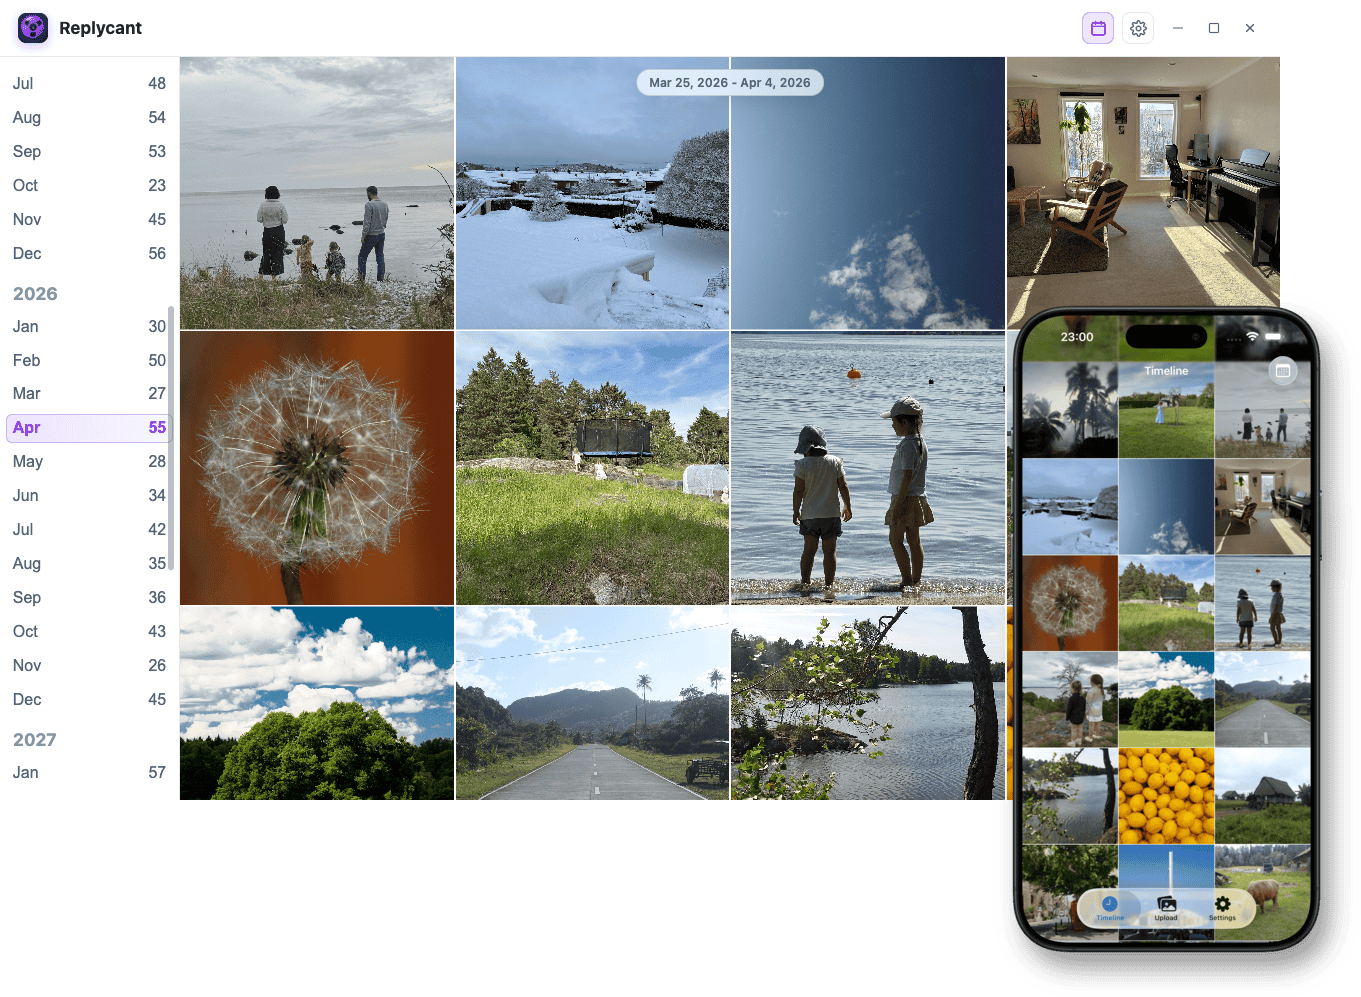
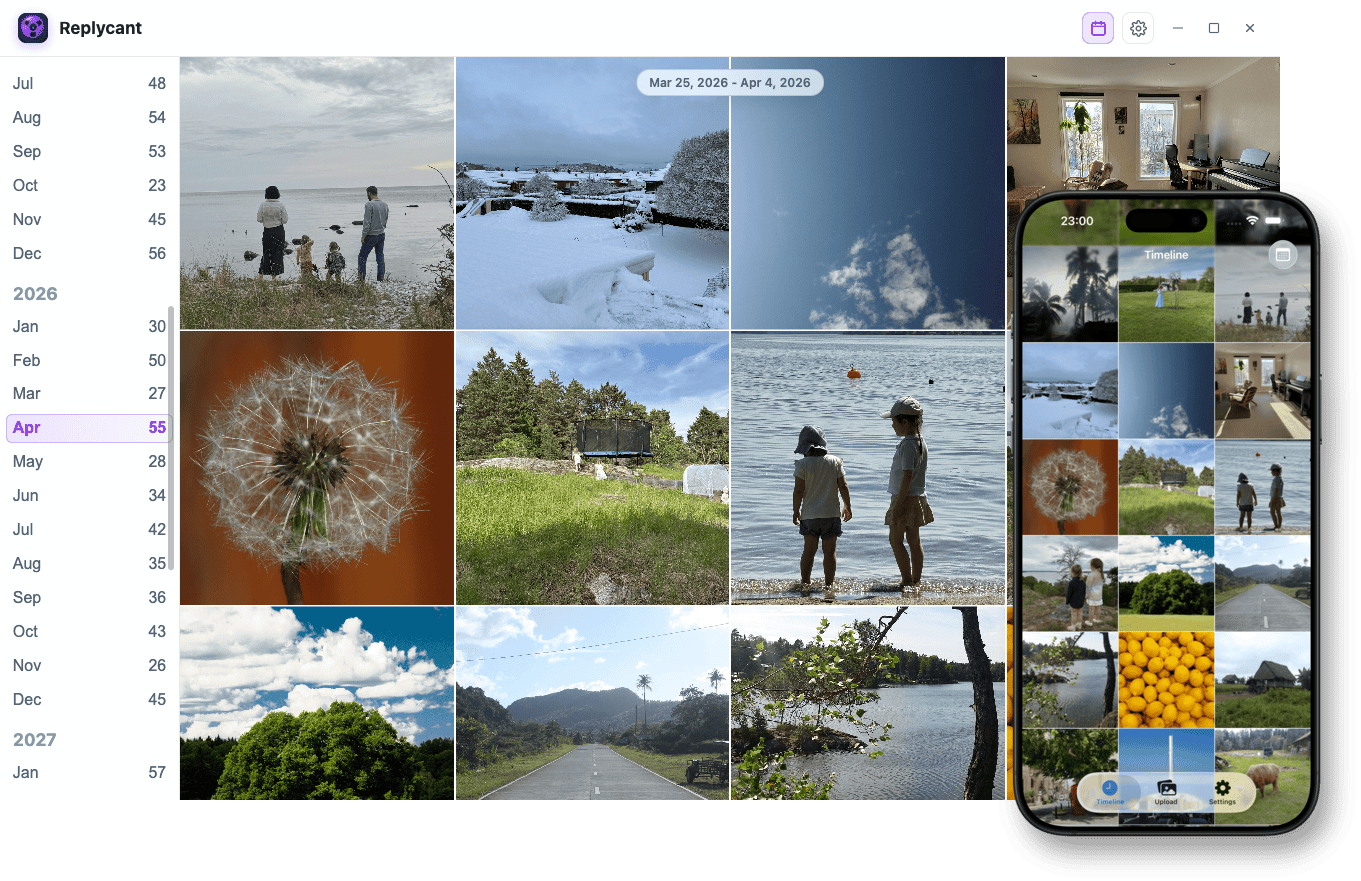
webapp: hang the README iPhone equally past both desktop edges
The compose step used different overhang fractions for width and
height, so the phone stuck out farther below the Electron window
than to the right.

diff --git a/webapp/src/e2e/composeReadmeScreenshot.ts b/webapp/src/e2e/composeReadmeScreenshot.ts
@@ -66,8 +66,8 @@ const optimizePng = (path: string): void => {
 };
 
 // Places the framed iPhone over the Electron window for a single README hero image.
-// Layout matches the product mockup: desktop as the base, iOS overlapping the
-// bottom-right and slightly overhanging the canvas edge.
+// Desktop is the base; the phone overlaps the bottom-right and hangs past
+// both edges by the same amount.
 const composeReadmeScreenshot = (): void => {
   if (!existsSync(DESKTOP_PATH)) {
     throw new Error(`missing desktop screenshot: ${DESKTOP_PATH}`);
@@ -110,9 +110,11 @@ const composeReadmeScreenshot = (): void => {
     ]);
 
     const ios = imageSize(iosShadowPath);
-    // Flush desktop to the top-left; hang the phone past the bottom-right edge.
+    // Flush desktop to the top-left; hang the phone equally past the
+    // right and bottom edges of the Electron window.
     const iosX = desktop.width - Math.round(ios.width * 0.78);
-    const iosY = desktop.height - Math.round(ios.height * 0.72);
+    const overhang = iosX + ios.width - desktop.width;
+    const iosY = desktop.height - ios.height + overhang;
     const canvasWidth = Math.max(desktop.width, iosX + ios.width);
     const canvasHeight = Math.max(desktop.height, iosY + ios.height);
 
